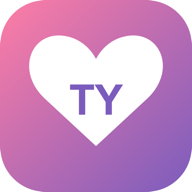
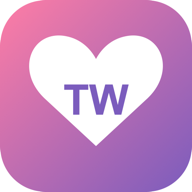
Rename the app from TY to TW
- Update the visible name everywhere: page title, header, install name and
  icon lettering, notifications, share text and README.
- Rename ty-local-app to tw-local-app and "Start TY.command" to "Start TW.command".
- Internal ids (localStorage keys, cache names) keep their ty- prefix so saved
  settings are not lost.

Changed region(s): [[0.3125, 0.4375, 0.6875, 0.625]]

diff --git a/index.html b/index.html
@@ -5,15 +5,15 @@
   <meta name="viewport" content="width=device-width, initial-scale=1, viewport-fit=cover">
   <meta name="theme-color" content="#ff7da5">
   <meta name="color-scheme" content="light dark">
-  <meta name="description" content="TY — a private little world for two.">
+  <meta name="description" content="TW — a private little world for two.">
   <meta name="apple-mobile-web-app-capable" content="yes">
   <meta name="mobile-web-app-capable" content="yes">
-  <meta name="apple-mobile-web-app-title" content="TY">
+  <meta name="apple-mobile-web-app-title" content="TW">
   <meta name="apple-mobile-web-app-status-bar-style" content="default">
   <link rel="manifest" href="manifest.webmanifest">
   <link rel="icon" href="icon.svg" type="image/svg+xml">
   <link rel="apple-touch-icon" href="apple-touch-icon.png">
-  <title>TY</title>
+  <title>TW</title>
   <style>
     :root { --ink:#382938; --muted:#806d7b; --paper:#fff9fb; --pink:#ff7da5; --pink-strong:#d6336c; --pink-soft:#ffe0eb; --purple:#7b5cbd; --mint:#e3f7ed; --line:#f2d7e1; --shadow:0 12px 30px rgba(128,68,95,.14); }
     * { box-sizing:border-box; }
@@ -172,13 +172,13 @@
 </head>
 <body>
   <script>try { var savedDark = localStorage.getItem("ty-dark-mode"); if (savedDark === "1" || (savedDark === null && matchMedia("(prefers-color-scheme: dark)").matches)) document.body.classList.add("dark"); } catch (error) {}</script>
-  <div id="surpriseScreen" class="hidden" role="dialog" aria-modal="true" aria-labelledby="surpriseTitle"><div class="authbox"><div class="heart">♥</div><h2 id="surpriseTitle">A little something for you</h2><div class="surprise-text" id="surpriseText"></div><button class="button" id="closeSurprise" type="button">Open TY</button></div></div>
-  <div id="bouquetScreen" class="hidden" role="dialog" aria-modal="true" aria-labelledby="bouquetTitle"><div class="authbox"><div class="bouquet-art" aria-hidden="true"><span>🌷</span><span>🌹</span><span>🌸</span><span>🌼</span><span>💐</span></div><h2 id="bouquetTitle">A bouquet arrived</h2><div class="surprise-text" id="bouquetNote"></div><button class="button" id="closeBouquet" type="button">Open TY</button></div></div>
+  <div id="surpriseScreen" class="hidden" role="dialog" aria-modal="true" aria-labelledby="surpriseTitle"><div class="authbox"><div class="heart">♥</div><h2 id="surpriseTitle">A little something for you</h2><div class="surprise-text" id="surpriseText"></div><button class="button" id="closeSurprise" type="button">Open TW</button></div></div>
+  <div id="bouquetScreen" class="hidden" role="dialog" aria-modal="true" aria-labelledby="bouquetTitle"><div class="authbox"><div class="bouquet-art" aria-hidden="true"><span>🌷</span><span>🌹</span><span>🌸</span><span>🌼</span><span>💐</span></div><h2 id="bouquetTitle">A bouquet arrived</h2><div class="surprise-text" id="bouquetNote"></div><button class="button" id="closeBouquet" type="button">Open TW</button></div></div>
   <div id="snapViewScreen" class="hidden" role="dialog" aria-modal="true" aria-label="Snap"><div class="authbox"><img id="snapViewImg" class="snap-view-img" alt="Snap from your partner"><div class="surprise-text" id="snapViewCaption"></div><div class="snap-view-actions"><button class="button" id="closeSnapView" type="button">Close</button><button class="button soft hidden" id="deleteSnap" type="button">Delete this snap</button></div></div></div>
   <div id="authScreen">
     <div class="authbox">
       <div class="heart">♥</div>
-      <section id="loginPanel"><h2>Welcome to TY</h2><p class="sub">Sign in to find your person.</p>
+      <section id="loginPanel"><h2>Welcome to TW</h2><p class="sub">Sign in to find your person.</p>
         <form id="loginForm" onsubmit="return false" novalidate>
           <input id="authEmail" type="email" autocomplete="email" placeholder="Your email" aria-label="Email">
           <input id="authPassword" type="password" autocomplete="current-password" placeholder="Password (at least 6 characters)" aria-label="Password">
@@ -193,7 +193,7 @@
     </div>
   </div>
   <main class="app hidden" id="app">
-    <header class="top"><div class="brand"><span class="heart">♥</span> TY</div><div class="account-actions"><button class="lock" id="darkBtn" type="button">🌙 Dark</button><button class="lock" id="downloadBtn" type="button">📲 Install</button><button class="lock" id="codeBtn" type="button">Change code</button><button class="lock" id="logoutBtn" type="button">Log out</button></div></header>
+    <header class="top"><div class="brand"><span class="heart">♥</span> TW</div><div class="account-actions"><button class="lock" id="darkBtn" type="button">🌙 Dark</button><button class="lock" id="downloadBtn" type="button">📲 Install</button><button class="lock" id="codeBtn" type="button">Change code</button><button class="lock" id="logoutBtn" type="button">Log out</button></div></header>
     <section class="hero">
       <div class="hero-copy">
         <div class="eyebrow">Private space</div><h1>Hi love</h1><p class="sub">A small shared space for two.</p>
@@ -212,9 +212,9 @@
       <article class="card"><div class="icon">🫶</div><h2>Come closer</h2><p>Make your little characters meet in the middle.</p><button class="button" id="approach" type="button" aria-pressed="false">Approach each other</button></article>
       <article class="card"><div class="icon">👆</div><h2>Magic poke <span class="ai-badge">AI</span></h2><p>Type a thought and turn it into a cute note.</p><input class="poke-input" id="pokeThought" maxlength="140" placeholder="e.g. I miss your smile" aria-label="Your thought"><button class="poke" id="poke" type="button">Make note &amp; poke</button><div class="poke-status" id="pokeStatus"></div></article>
       <article class="card"><div class="icon">🏆</div><h2>Love effort</h2><p>Grows from the ratings you give each other after games.</p><div class="effort-number" id="effortCount">0</div><span class="tiny">mutual love points</span></article>
-      <article class="card"><div class="icon">🎁</div><h2>Opening surprise <span class="ai-badge">AI</span></h2><p>Set a loving message that appears the next time your partner opens TY.</p><input class="poke-input" id="surpriseInput" maxlength="220" placeholder="e.g. I’m sorry, I miss you so much…" aria-label="Your surprise message"><button class="button" id="setSurprise" type="button">Save opening surprise</button><div class="poke-status" id="surpriseStatus"></div></article>
+      <article class="card"><div class="icon">🎁</div><h2>Opening surprise <span class="ai-badge">AI</span></h2><p>Set a loving message that appears the next time your partner opens TW.</p><input class="poke-input" id="surpriseInput" maxlength="220" placeholder="e.g. I’m sorry, I miss you so much…" aria-label="Your surprise message"><button class="button" id="setSurprise" type="button">Save opening surprise</button><div class="poke-status" id="surpriseStatus"></div></article>
       <article class="card"><div class="icon">💐</div><h2>Send a bouquet <span class="ai-badge">AI</span></h2><p>Surprise them with a virtual bouquet and a little AI-written note.</p><input class="poke-input" id="bouquetInput" maxlength="140" placeholder="Optional: what's it for? Leave blank for a surprise" aria-label="What the bouquet is for"><button class="button" id="sendBouquet" type="button">Send a bouquet</button><div class="poke-status" id="bouquetStatus"></div></article>
-      <article class="card wide privacy"><h2>Privacy first</h2><p>Your messages, notes and snaps are stored in your private TY space online. Security rules let only the two of you read them, but they are not end-to-end encrypted, so keep anything truly secret out of here.</p><div class="setting"><label for="notifyToggle">Notify me of pokes, notes &amp; messages</label><input class="switch" id="notifyToggle" type="checkbox" checked></div><div class="setting"><span id="notifyStatusLabel">Browser notifications: not requested yet</span><button class="lock" id="enableNotify" type="button">Enable</button></div></article>
+      <article class="card wide privacy"><h2>Privacy first</h2><p>Your messages, notes and snaps are stored in your private TW space online. Security rules let only the two of you read them, but they are not end-to-end encrypted, so keep anything truly secret out of here.</p><div class="setting"><label for="notifyToggle">Notify me of pokes, notes &amp; messages</label><input class="switch" id="notifyToggle" type="checkbox" checked></div><div class="setting"><span id="notifyStatusLabel">Browser notifications: not requested yet</span><button class="lock" id="enableNotify" type="button">Enable</button></div></article>
     </div></section>
     <section id="notes" class="view"><article class="card"><div class="icon">💌</div><h2>Make a little note <span class="ai-badge">AI</span></h2><p>Choose a feeling, write from your heart, and give it a cute surprise style.</p><div class="note-maker"><div class="moods" id="moods"><button class="mood selected" data-mood="loving" type="button" aria-pressed="true">Loving</button><button class="mood" data-mood="happy" type="button" aria-pressed="false">Happy</button><button class="mood" data-mood="missing you" type="button" aria-pressed="false">Missing you</button><button class="mood" data-mood="sorry" type="button" aria-pressed="false">Sorry</button></div><textarea id="noteText" placeholder="Write something for Moon Bunny…" aria-label="Your note" maxlength="500"></textarea><button class="button" id="makeNote" type="button">Wrap it with love</button></div><div id="noteResult" class="result"></div></article></section>
     <section id="play" class="view"><div class="grid">
@@ -329,7 +329,7 @@
       "auth/too-many-requests":"Too many tries — wait a minute and try again.",
       "auth/network-request-failed":"No connection — check your internet and try again.",
       "unavailable":"No connection — check your internet and try again.",
-      "permission-denied":"TY isn't allowed to do that yet — the Firebase security rules may need updating."
+      "permission-denied":"TW isn't allowed to do that yet — the Firebase security rules may need updating."
     };
     const friendlyError = error => errorMessages[error?.code] || (error?.message||"Something went wrong.").replace(/^Firebase: /,"");
     function timeAgo(ms){ const s=Math.floor((Date.now()-ms)/1000); if(s<45) return "just now"; const m=Math.floor(s/60); if(m<60) return m+"m ago"; const h=Math.floor(m/60); if(h<24) return h+"h ago"; return Math.floor(h/24)+"d ago"; }
@@ -385,7 +385,7 @@
       if(Notification.permission==="default"){ try { await Notification.requestPermission(); } catch(error){} }
       updateNotifyLabel();
     }
-    // Only fires while TY is in the background; when it's open the change is already on screen.
+    // Only fires while TW is in the background; when it's open the change is already on screen.
     async function notifyMe(title,body){
       if(!$("notifyToggle").checked || !document.hidden) return;
       if(!("Notification" in window) || Notification.permission!=="granted") return;
@@ -490,9 +490,9 @@
     $("shareCode").textContent = navigator.share ? "Share" : "Copy";
     $("shareCode").onclick=async()=>{
       if(!coupleId) return;
-      const button=$("shareCode"), text=`Join me on TY 💗 Our code is ${coupleId} — ${location.origin}/`;
+      const button=$("shareCode"), text=`Join me on TW 💗 Our code is ${coupleId} — ${location.origin}/`;
       try {
-        if(navigator.share){ await navigator.share({ title:"TY", text }); return; }
+        if(navigator.share){ await navigator.share({ title:"TW", text }); return; }
         await navigator.clipboard.writeText(coupleId);
         button.textContent="Copied ✓"; setTimeout(()=>{ button.textContent="Copy"; },1500);
       } catch(error){ if(error?.name!=="AbortError") prompt("Copy this code and send it to your partner:",coupleId); }
@@ -517,7 +517,7 @@
       celebratedTrivia.clear(); scoring.clear(); purging.clear();
       $("chatMessages").innerHTML=""; $("snapGallery").innerHTML=""; $("pokeStatus").textContent=""; $("noteResult").classList.remove("show");
       showApp();
-      const listenError = name => error => console.warn("TY: could not listen to "+name,error?.code||error);
+      const listenError = name => error => console.warn("TW: could not listen to "+name,error?.code||error);
       coupleUnsubs.push(onSnapshot(coupleRef(),onCoupleSnapshot,error=>{ if(coupleId===id) showStatus("We couldn't open your space ("+(error?.code||"error")+").",true); }));
       coupleUnsubs.push(onSnapshot(query(collection(db,"couples",id,"messages"),orderBy("createdAt","desc"),limit(MESSAGE_LIMIT)),onMessagesSnapshot,listenError("messages")));
       coupleUnsubs.push(onSnapshot(query(collection(db,"couples",id,"snaps"),orderBy("createdAt","desc"),limit(SNAP_LIMIT)),onSnapsSnapshot,listenError("snaps")));
@@ -561,7 +561,7 @@
       const surprise=shared.surprise;
       if(surprise && surprise.authorId!==me && !surprise.seen && !surpriseShown){
         surpriseShown=true; $("surpriseText").textContent=surprise.text; $("surpriseScreen").classList.remove("hidden");
-        if(live) notifyMe("A surprise is waiting 🎁","Open TY to see it.");
+        if(live) notifyMe("A surprise is waiting 🎁","Open TW to see it.");
         confettiBurst(); playChime("success");
       }
       if(surprise && surprise.authorId===me && surprise.seen) $("surpriseStatus").textContent="They opened your surprise 💗";
@@ -797,7 +797,7 @@
       if(!raw){ $("surpriseStatus").textContent="Write a little message first."; return; }
       $("surpriseStatus").textContent="Wrapping it up…";
       const text=await generateAIText(`Lightly polish this heartfelt note from one partner to another. Keep their original meaning and voice, just make it warm and well written (max 3 sentences), no quotation marks: "${raw}"`,raw);
-      try { await updateDoc(coupleRef(),{"shared.surprise":{text,authorId:authUser.uid,seen:false}}); $("surpriseInput").value=""; $("surpriseStatus").textContent="Saved — your love will see it the next time they open TY."; }
+      try { await updateDoc(coupleRef(),{"shared.surprise":{text,authorId:authUser.uid,seen:false}}); $("surpriseInput").value=""; $("surpriseStatus").textContent="Saved — your love will see it the next time they open TW."; }
       catch(error){ $("surpriseStatus").textContent="Could not save it yet."; }
     });
     $("sendBouquet").onclick=()=>busy($("sendBouquet"),async()=>{
@@ -808,7 +808,7 @@
         ? `Write one short, sweet note (max 2 sentences) to go with a surprise virtual bouquet for a partner, inspired by: "${context}". No quotation marks, warm tone, end with one flower emoji.`
         : `Write one short, sweet, surprising note (max 2 sentences) to go with a virtual bouquet sent to a partner just because. No quotation marks, warm tone, end with one flower emoji.`;
       const text=await generateAIText(prompt,fallback);
-      try { await updateDoc(coupleRef(),{"shared.bouquet":{note:text,authorId:authUser.uid,seen:false}}); $("bouquetInput").value=""; $("bouquetStatus").textContent="Bouquet sent — they'll see it the next time they open TY. 💐"; playChime("success"); confettiBurst(["💐","🌷","🌸","✨"],16); }
+      try { await updateDoc(coupleRef(),{"shared.bouquet":{note:text,authorId:authUser.uid,seen:false}}); $("bouquetInput").value=""; $("bouquetStatus").textContent="Bouquet sent — they'll see it the next time they open TW. 💐"; playChime("success"); confettiBurst(["💐","🌷","🌸","✨"],16); }
       catch(error){ $("bouquetStatus").textContent="Could not send the bouquet yet."; }
     });
     // Closing the card marks it as seen so it doesn't pop up again on every visit.
@@ -1068,7 +1068,7 @@
     setTimeout(() => {
       if (!window.__tyReady) {
         const message = document.getElementById("authMessage");
-        if (message) message.textContent = "Couldn't load TY — check your connection and reload.";
+        if (message) message.textContent = "Couldn't load TW — check your connection and reload.";
       }
     }, 10000);
   </script>

diff --git a/our-little-world.html b/our-little-world.html
@@ -5,10 +5,10 @@
   <meta name="viewport" content="width=device-width, initial-scale=1">
   <meta http-equiv="refresh" content="0; url=./">
   <link rel="canonical" href="./">
-  <title>TY</title>
+  <title>TW</title>
   <script>location.replace("./");</script>
 </head>
 <body>
-  <p>TY has moved — <a href="./">open it here</a>.</p>
+  <p>TW has moved — <a href="./">open it here</a>.</p>
 </body>
 </html>

diff --git a/README.md b/README.md
@@ -1,4 +1,4 @@
-# TY
+# TW
 
 A private little web app for two people: pairing by code, live chat with reactions, pokes and love notes,
 couple trivia, daily tasks, view-once or kept photo "snaps", and an installable PWA. No build step — it is a
@@ -12,7 +12,7 @@ static site backed by Firebase (Auth, Firestore, Storage).
 | `service-worker.js`, `manifest.webmanifest`, `icon*.svg/png` | PWA: offline shell, install metadata, icons. |
 | `firestore.rules`, `storage.rules`, `firebase.json`, `.firebaserc` | Firebase security rules and CLI config (project `aytt-677b4`). |
 | `vercel.json` | Security headers for the Vercel deployment. |
-| `ty-local-app/Start TY.command` | Double-click on a Mac to serve this folder on `http://localhost:8765`. |
+| `tw-local-app/Start TW.command` | Double-click on a Mac to serve this folder on `http://localhost:8765`. |
 
 ## Run it locally
 
@@ -43,5 +43,5 @@ rules look up the couple's members in Firestore).
   Cloud console (APIs & Services → Credentials) and consider enabling Firebase App Check.
 - AI-flavoured features fall back to built-in templates until `AI_ENDPOINT` in `index.html` points at your own proxy
   that holds the API key server-side.
-- Pokes, notes and messages only notify while TY is open in the background. True push notifications need Firebase
+- Pokes, notes and messages only notify while TW is open in the background. True push notifications need Firebase
   Cloud Messaging.
